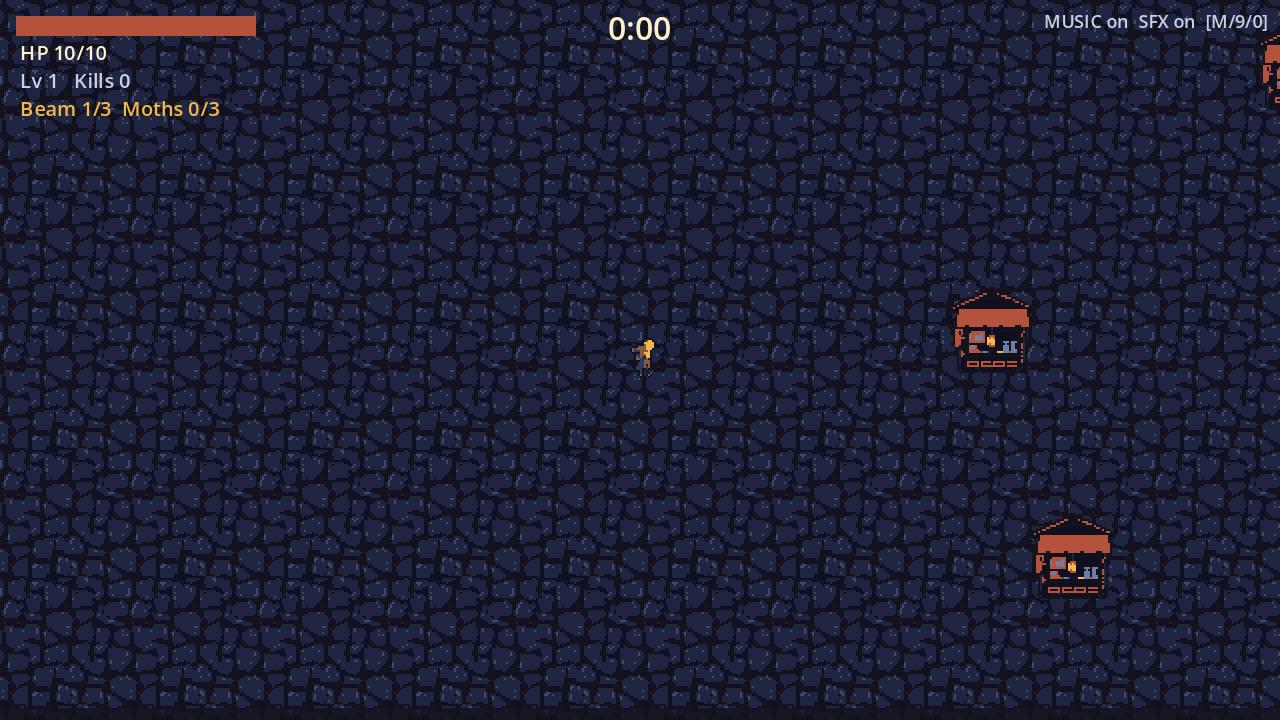
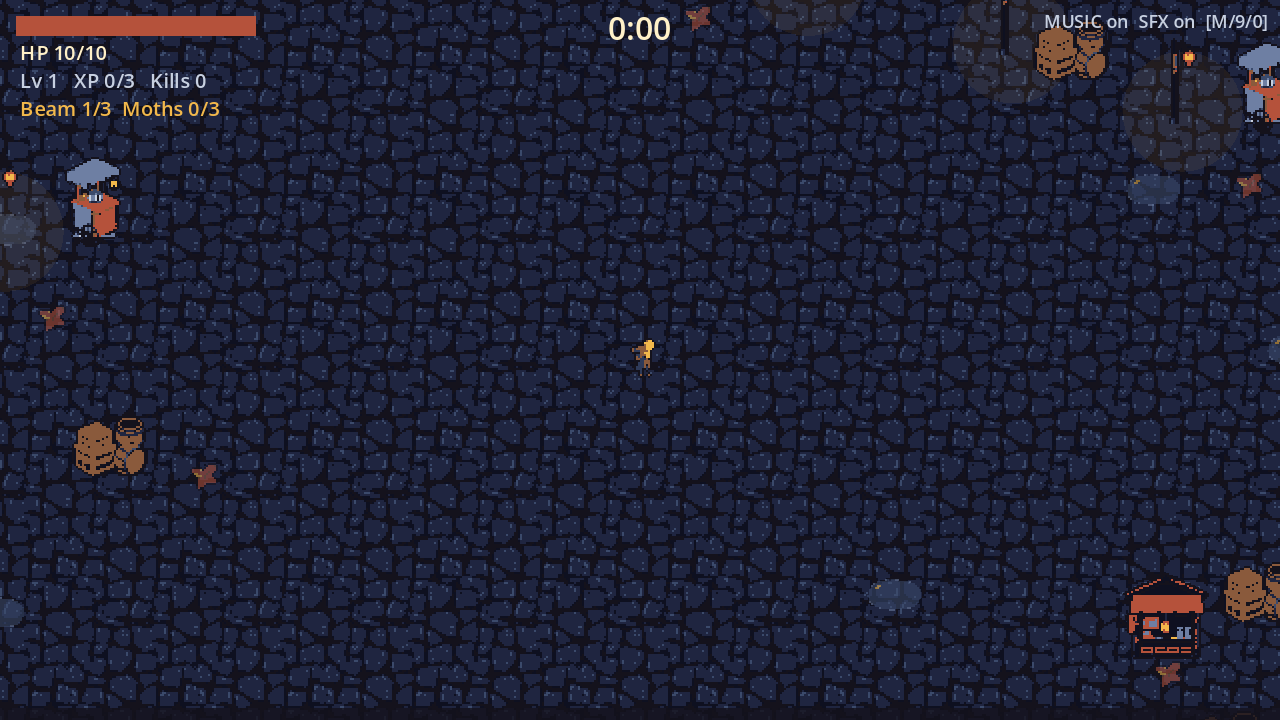
Runs A (sound on) and B (muted) by Bao: TEST-REPORT complete except the final GitHub clone; diary 10/01; comparisons re-captured

diff --git a/TEST-REPORT.md b/TEST-REPORT.md
@@ -2,7 +2,7 @@
 
 `walker-lanternfall-bao-x` · Bao Xing · CSYE 7270 Assignment 2
 
-> **Status: interim, written 2026-09-30 against commit `89ae6ed`.** Sound effects (SFX-01…06b) and the five new map props (ART-ENV-03…07) are still being generated. Everything marked **PENDING** below is checked after they are in the build, in my two full playtests (sound on, then muted). Nothing here is claimed before it was observed.
+> **Status: updated 2026-10-01 for build `1b24721`, with all 23 assets in.** My two full playtests (sound on, then muted) are done; the only item still open is the fresh clone from GitHub at the final commit (§2). Nothing here is claimed before it was observed.
 
 ## 1. Environment
 
@@ -15,20 +15,20 @@
 
 ## 2. Fresh copy
 
-- **Local fresh clone of `89ae6ed`** (2026-09-30): `git clone` into an empty folder → `godot --headless --path godot --import` → all three suites: **logic 32/32, gameplay 62/62, audio 22/22**, no script errors. All 9 committed sprites and both music loops were present; nothing is downloaded at run time.
-- **PENDING:** the same from a fresh clone of the GitHub repository at the final commit (22 local commits were not yet pushed when this was written).
+- **Local fresh clone of `1b24721`** (2026-10-01): `git clone` into an empty folder → `godot --headless --path godot --import` → all three suites: **logic 32/32, gameplay 63/63, audio 22/22**, no script errors; `audit_repo.py --stage final`: 0 problems. All 14 sprites, 7 sound effects and 2 music loops were present; nothing is downloaded at run time. (An earlier clone of `89ae6ed`, before the sounds and new props, also passed.)
+- **PENDING:** the same from a fresh clone of the GitHub repository at the final commit.
 
 ## 3. Automated checks (all added for this project)
 
 | Check | Result (2026-09-30) | What it proves | Evidence |
 |---|---|---|---|
 | `godot/tests/test_logic.gd` | 32 / 32 | state machine; branching cards, 5-level passives, damage/haste multipliers, evolution rule; XP needed always rises; SFX gate cooldowns, voice caps, once-per-run | `evidence/logic.json` |
-| `godot/tests/test_gameplay.gd` | 62 / 62 | movement, diagonal normalisation, facing dead-zone, poses, nearest-enemy aim, bullets stop on visible contact, gems, level-up queue (incl. while paused), i-frames, win/lose incl. same-tick, evolution, restart, missing-art fallback, HUD text, hurtbox on the torso, HP growth, damage/haste cards, camera moves, map layout, solid props | `evidence/gameplay.json` |
-| `godot/tests/test_audio.gd` | 22 / 22 | once-per-event SFX, bursts, held/rapid input, music duck/filter/fade, restart during fade, mute, **sound-independence** | `evidence/audio.json` |
-| `gen/checks/palette_check.py` | 9 / 9 sprites PASS | exact size, binary alpha, palette-only; enemy-vs-ground contrast | `evidence/palette-check.json` |
+| `godot/tests/test_gameplay.gd` | 63 / 63 | movement, diagonal normalisation, facing dead-zone, poses, nearest-enemy aim, bullets stop on visible contact, gems, level-up queue (incl. while paused), i-frames, win/lose incl. same-tick, evolution, restart, missing-art fallback, HUD text, hurtbox on the torso, HP growth, damage/haste cards, camera moves, map layout, solid props | `evidence/gameplay.json` |
+| `godot/tests/test_audio.gd` | 22 / 22 (with the real sounds loaded) | once-per-event SFX, bursts, held/rapid input, music duck/filter/fade, restart during fade, mute, **sound-independence** | `evidence/audio.json` |
+| `gen/checks/palette_check.py` | 14 / 14 sprites PASS | exact size, binary alpha, palette-only; enemy-vs-ground contrast | `evidence/palette-check.json` |
 | `gen/checks/loop_check.py` | MUS-01, MUS-02 PASS; layer length PASS | loop wrap has no click or gap; layer = base length | `evidence/loop-check.json` |
 | `gen/tile_process.py` seam metric | PASS (seam 7.52 vs interior 6.05) | the ground tile tiles without a visible seam | `evidence/tile-seam.json` |
-| `scripts/audit_repo.py --stage final` | 12 problems = the 12 assets not generated yet; order check PASS | no MP3/MP4/large files/caches/keys; every CHANGE-BRIEF asset exists; **every generation is newer than `design-v1`** (tag 2026-09-28 15:21 EDT; first generation commit `e384933`, 2026-09-29 16:57 EDT, a descendant of the tag) | `evidence/repo-audit.json` |
+| `scripts/audit_repo.py --stage final` | 0 problems (all 23 asset IDs present); order check PASS | no MP3/MP4/large files/caches/keys; every CHANGE-BRIEF asset exists; **every generation is newer than `design-v1`** (tag 2026-09-28 15:21 EDT; first generation commit `e384933`, 2026-09-29 16:57 EDT, a descendant of the tag) | `evidence/repo-audit.json` |
 | balance probe `godot/tests/probe_balance.gd` | informational | scripted bots to compare tuning | `evidence/balance-probe-*.txt` |
 
 The test harness fails a suite that stops early; my runner also fails on any `SCRIPT ERROR` (both added after a script error once aborted a helper silently).
@@ -41,8 +41,8 @@ Full notes in my words: [`evidence/playtest/2026-09-29-bao-notes.md`](evidence/p
 |---|---|---|---|
 | 1 — 2026-09-29, music only, no SFX yet | `40102ab` | first play of the greybox with generated art | bullets flew through monsters → loop L1 below; asked for a fuller map, rising XP cost, tougher monsters over time, more cards |
 | 2 — 2026-09-29/30, music only | `79c2874` | re-test after the fixes | "子弹对的" (bullets fixed), "撞墙手感还行" (collisions feel fine), "不难" (not hard), "有合成出来" (I reached the Sunflare); asked for a more broken-up map |
-| **Run A — sound on** | final | the full sound checklist | **PENDING** (needs SFX) |
-| **Run B — muted (M on the title screen)** | final | can I read every event without sound? | **PENDING** |
+| **Run A — sound on** — 2026-10-01 | `1b24721` | the full sound checklist | "只响一次，不会连起来，不会，没有空白" — each sound once, kills never machine-gun, no extra sounds from tapping/holding, no gap at the loop; pause, level-up duck, Sunflare layer, lose/win fade + stinger, R during the fade, M/9/0 all confirmed — [`evidence/playtest/2026-10-01-runs-A-B.md`](evidence/playtest/2026-10-01-runs-A-B.md) |
+| **Run B — muted (M on the title screen)** — 2026-10-01 | `1b24721` | can I read every event without sound? | "第二局都能" — hits, level-ups and the evolution all readable from the picture; wraiths and the courier visible |
 
 ## 5. Movement and state changes
 
@@ -63,7 +63,7 @@ All nine panels were captured from the build (`godot/tests/capture.gd`). The fir
 
 ## 8. Sound: once per event
 
-Automated (current build, streams not yet present — the gate and counts do not depend on the files):
+Automated (the gate and the counts do not depend on the audio files; re-run with the real sounds loaded):
 
 | Check | Observed |
 |---|---|
@@ -74,11 +74,11 @@ Automated (current build, streams not yet present — the gate and counts do not
 | `burst-20-kills-one-sfx` | 20 kills in one tick → 1 play |
 | `evolve-sfx-once` / `one-stinger` | 1 evolution sound; 1 stinger at the end |
 
-**PENDING (Run A):** hearing each of the seven sounds on its event in play.
+**Run A (me):** each of the seven sounds played once on its event — "只响一次" — and kills in dense waves did not run together — "不会连起来".
 
 ## 9. Rapid and held input
 
-Automated: `hold-input-no-sfx` (100 ticks holding a direction → 0 sounds), `rapid-pause-no-sfx` (20 pause toggles → 0 sounds, state correct) — PASS. Key presses ignore key-repeat echo, and no sound is attached to input. **PENDING (Run A):** tapping and holding by hand.
+Automated: `hold-input-no-sfx` (100 ticks holding a direction → 0 sounds), `rapid-pause-no-sfx` (20 pause toggles → 0 sounds, state correct) — PASS. Key presses ignore key-repeat echo, and no sound is attached to input. **Run A (me):** tapping fast and holding a direction produced no extra sounds — "不会".
 
 ## 10. Music loop seam
 
@@ -88,15 +88,15 @@ Automated: `hold-input-no-sfx` (100 ticks holding a direction → 0 sounds), `ra
 | MUS-02 Sunflare layer | 20.004 s | 0.00844 vs 0.02508 | 1.74 / 2.29 | PASS |
 | layer length = base length | 882176 = 882176 frames | — | — | PASS |
 
-By ear: I listened to each of the four MUS-01 candidates as a loop played three times in a row and picked the one without audible clutter; I listened to three MUS-01 + MUS-02 mixes looped three times and picked s34. **PENDING (Run A):** listening to the loop point inside the game.
+By ear: I listened to each of the four MUS-01 candidates as a loop played three times in a row and picked the one without audible clutter; I listened to three MUS-01 + MUS-02 mixes looped three times and picked s34. **Run A (me):** no click or gap at the loop point in the game — "没有空白".
 
 ## 11. Pause and end behaviour
 
-Automated: `pause-lowpass-and-duck` (low-pass on, −10 dB), `resume-restores`, `levelup-duck` / `levelup-unduck` (−6 dB), `lost-fades` → `lost-stops`, `restart-during-fade` (new run's music at full volume, filter off), `restart-from-pause`, `mute-flags`, `mute-no-state-change` — PASS. `independence`: a seeded run with every stream removed and the master bus muted ends in exactly the same state as the run with sound (same tick 3850, kills 88, level 8, position). **PENDING (Run A):** hearing these in play.
+Automated: `pause-lowpass-and-duck` (low-pass on, −10 dB), `resume-restores`, `levelup-duck` / `levelup-unduck` (−6 dB), `lost-fades` → `lost-stops`, `restart-during-fade` (new run's music at full volume, filter off), `restart-from-pause`, `mute-flags`, `mute-no-state-change` — PASS. `independence`: a seeded run with every stream removed and the master bus muted ends in exactly the same state as the run with sound (same tick 3850, kills 88, level 8, position). **Run A (me):** confirmed in play — pause muffles and quietens the music and resume restores it; level-up dips it; the Sunflare layer comes in; lose/win fade with the stinger; R during the fade restarts the music cleanly; M/9/0 work.
 
 ## 12. Understandable without sound
 
-Design: every sound event has a visual — hit: red flash, screen tint, knockback, HP bar; pickup: the gem flies to the courier and the XP bar/number rises; level-up: the field freezes and cards appear; evolution: banner, zoom-out, brighter courier; end: result panel; the HUD shows `MUSIC on/off SFX on/off`. **PENDING (Run B):** my muted run — especially whether the fog-wraiths are visible (contrast 0.03).
+Design: every sound event has a visual — hit: red flash, screen tint, knockback, HP bar; pickup: the gem flies to the courier and the XP bar/number rises; level-up: the field freezes and cards appear; evolution: banner, zoom-out, brighter courier; end: result panel; the HUD shows `MUSIC on/off SFX on/off`. **Run B (me), muted from the title screen:** "第二局都能" — I could tell being hit, levelling up and evolving without sound, and I could see the fog-wraiths and the courier. Measured contrast for the wraith is still the lowest (0.03), but in play it read well enough, so its colours stay as generated.
 
 ## 13. Observe → change → re-verify
 
@@ -118,15 +118,16 @@ Design: every sound event has a visual — hit: red flash, screen tint, knockbac
 
 | # | Prediction | What happened |
 |---|---|---|
-| 1 | Kill SFX machine-guns in dense waves | Not in the automated runs (min gap 117 ms; 20 kills → 1 sound). **PENDING** by ear. |
+| 1 | Kill SFX machine-guns in dense waves | Did not happen: min gap 117 ms and 20 kills → 1 sound in the automated runs; by ear in Run A, "不会连起来". |
 | 2 | Generated poses drift after downscaling | Happened, differently than predicted: identity held, but FLUX ignored the pose grid and the lamp size varied; fixed by per-pose prompts and lamp normalisation (L2–L4). |
 | 3 | MusicGen loops click or drift | Did not happen after processing: all loops PASS; confirmed by ear on the candidates. |
-| 4 | Enemies unreadable against the ground | **Confirmed for the wraith** (contrast 0.03 vs 0.40 for the moth). Decision waits for my muted run. |
+| 4 | Enemies unreadable against the ground | Measured low for the wraith (contrast 0.03 vs 0.40 for the moth), but in my muted run it was readable ("第二局都能"); kept. The props added later were made subtle (decals at 55 %) so the ground stays darkest. |
 | 5 | MUS-02 drifts against MUS-01 | Happened with the melody-conditioned model; fixed with a second batch (L7). |
 
 ## 15. Open questions and not yet verified
 
-- All **PENDING** items above (SFX by ear, muted run, fresh GitHub clone).
-- Fog-wraith visibility; courier size on screen; whether to shrink the hurtbox to r ≈ 7.
+- Fresh clone from GitHub at the final commit (§2).
+- Hurtbox kept at r = 10 (it reaches the lower lamp); it was not raised as a problem in play.
+- The courier is small on screen (~20 px tall); readable in both runs, but worth revisiting if the camera ever zooms out further.
 - No gamepad test is recorded.
 - Balance is tuned against my own play and scripted bots only.

diff --git a/FRICTIONAL.md b/FRICTIONAL.md
@@ -105,3 +105,26 @@ Most of the sound candidates were far brighter than the concept's "warm, soft" d
 
 - For every sound I listened to the three candidates and chose the one that was not harsh and fit its event: "3 不刺耳", "1 干净", "3 听着像受伤".
 - I picked one prop from each set of three (the puddle from the rewritten second batch) and chose to draw puddles and leaves half-transparent, so the ground stays darker than the courier and the gems.
+
+---
+
+## 2026-10-01 (Thu) — the two full playtests
+
+**From the logs**
+- Build `1b24721`, all 23 assets in. Fresh local clone: 117/117 automated checks, repository audit 0 problems. The engine log for my session has no errors.
+- Run A, sound on: "只响一次，不会连起来，不会，没有空白" — each sound once, kills never machine-gun, no extra sound from tapping or holding a key, no gap at the 20 s loop. Ticked afterwards: pause muffles the music, level-up dips it, the Sunflare layer comes in, lose/win fade with the stinger, R during the fade restarts cleanly, M/9/0 work.
+- Run B, muted from the title screen: "第二局都能" — every event readable without sound, wraiths and the courier visible.
+- Storyboard and character-sheet comparisons re-captured with the final map.
+
+**What I wanted**
+
+To check, with my own ears and eyes, that the finished slice does what the CHANGE-BRIEF promised: one sound per event, a seamless loop, sensible pause and end behaviour, and a game I can follow with the sound off.
+
+**What came back**
+
+It did. Nothing repeated, the loop had no gap, and the muted run was fully readable — including the fog-wraith, whose measured contrast against the ground is the lowest of all the sprites.
+
+**What I decided, and why**
+
+- Keep the wraith's colours as generated: the number said "low contrast", but in the muted run I could see them, and the playtest is the test that matters.
+- Keep the hurtbox at r = 10: collisions felt fair in play.

diff --git a/evidence/playtest/2026-10-01-runs-A-B.md b/evidence/playtest/2026-10-01-runs-A-B.md
@@ -1,0 +1,25 @@
+# Runs A and B — Bao, 2026-10-01, build 1b24721 (all 23 assets in)
+
+Played by Bao in the Godot window launched from the repository. The engine log for the session contains no errors or warnings.
+
+## Run A — sound on
+
+Bao's words: **"只响一次，不会连起来，不会，没有空白"** — answering, in order:
+
+| Checklist item | Bao |
+|---|---|
+| Each of the seven sounds plays once per event | "只响一次" — once |
+| Kill sounds in dense waves machine-gun into one another? | "不会连起来" — no |
+| Fast tapping / holding a direction produces extra sounds? | "不会" — no |
+| Click, gap or tempo jump at the 20 s music loop point? | "没有空白" — no gap |
+
+Confirmed by Bao in a follow-up (ticked from a list of four; he was told to tick only what he had observed):
+
+- Pause (Esc/P): music becomes muffled and quieter, and returns to normal on resume.
+- Level-up cards: music dips; after the Sunflare evolution a brighter layer comes in.
+- Lose/win: music fades out with the stinger; pressing R during the fade restarts the music normally.
+- M / 9 / 0 mute all / music / effects correctly.
+
+## Run B — muted (M pressed on the title screen)
+
+Bao's words: **"第二局都能"** — in the muted run he could tell everything asked: being hit, levelling up and evolving from the picture alone, and he could see the fog-wraiths and the courier.
